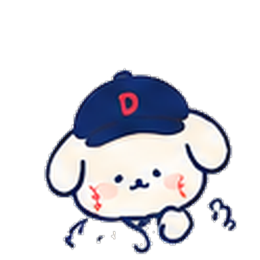
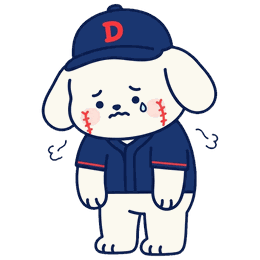
design: 평가 표정 이미지 갱신과 노쇼 이미지(rate-noshow) 추가, 0점은 노쇼 표정으로

diff --git a/src/constants/policy.js b/src/constants/policy.js
@@ -23,7 +23,7 @@ export const REVIEW = {
     COMMENT_MAX: 100,
     PROFILE_PREVIEW_COUNT: 3, // 프로필에는 최근 3개 + 전체보기
     // 점수 → 표정 이미지
-    faceFromScore: (s) => (s >= 8 ? 'rate-good' : s >= 5 ? 'rate-soso' : 'rate-bad'),
+    faceFromScore: (s) => (s >= 8 ? 'rate-good' : s >= 5 ? 'rate-soso' : s >= 1 ? 'rate-bad' : 'rate-noshow'),
 }
 
 export const RECORD = {

diff --git a/CLAUDE.md b/CLAUDE.md
@@ -38,7 +38,7 @@
 - 매너 타율: 시작 .250, 최저 .200, 최고 .400. 구간 .200 슬럼프 / .250 주전 타자 / .300 3할 타자 / .400 4할 타자.
 - 메이트 평가: 1~10점(노쇼는 0점), 변화량 `(점수 - 6) × 0.002`, 노쇼는 점수와 상관없이 −0.015. 노쇼도 한 줄 후기를 쓸 수 있다. 경기 후 7일 안에만 평가. 같은 사람끼리는 한 달에 1번만 반영.
 - **후기 공개 범위**: 누가 썼는지는 비공개. 점수와 한 줄 후기는 받은 사람의 프로필에 공개 (프로필에는 최근 3개 + 전체보기).
-- 평가 표정: 8점 이상 `rate-good`, 5~7점 `rate-soso`, 4점 이하 `rate-bad`.
+- 평가 표정: 8점 이상 `rate-good`, 5~7점 `rate-soso`, 1~4점 `rate-bad`, 노쇼(0점) `rate-noshow`.
 - 직관 승률 캐릭터: 승률 .500 이상 승리요정 `rate-up.png`, .500 미만 눈물요정 `rate-down.png`.
 - 모집 글: 인원 2~10명(본인 포함), 좌석 하나(응원석/테이블석/내야석/외야석), 나이대 여러 개(10대/20대/30대/40대 이상, 선택 안 하면 무관), 성별 하나(여성/남성/무관). 대표 이미지는 선택이고 없으면 `mate-default.png`.
 - 모집 상태(`mate_posts.status`, open/closed): 수락된 인원이 정원이 되면 DB 트리거가 `closed`로 바꾸고, 자리가 나면(나감 등) 경기 시작 전일 때만 다시 `open`으로 바꾼다. 경기가 시작되면 `pg_cron`이 매 분 `closed`로 바꾼다 (`supabase/schema/06_cron.sql`). 마감 중에 쌓인 대기 신청은 그대로 두고, 자리가 나면 방장이 수락한다. 방장은 상태를 직접 바꾸지 못한다.
